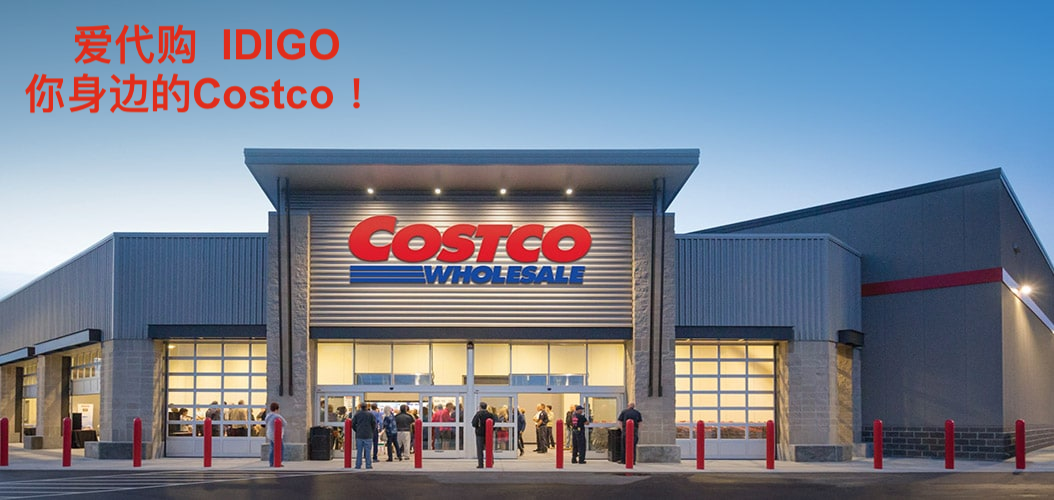
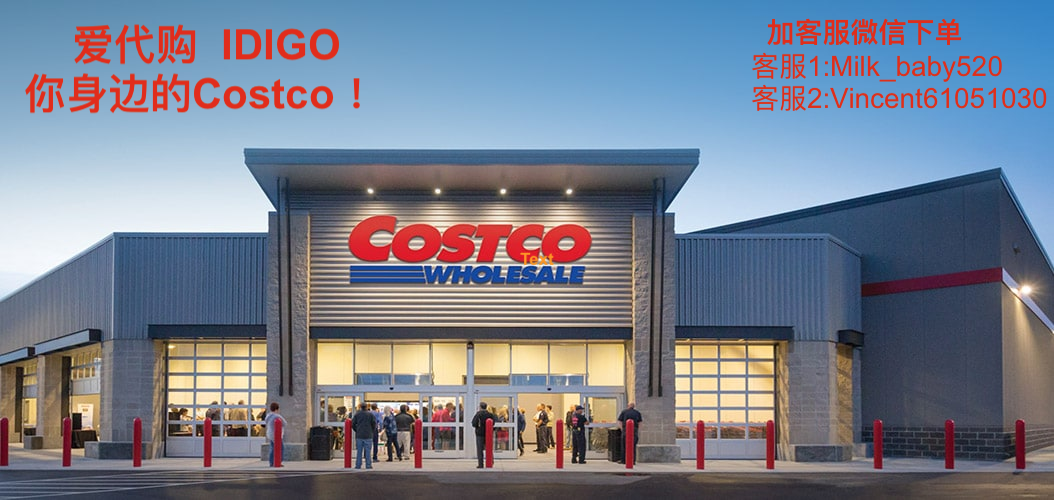
add customer service wechat on the cover, and description.

Changed region(s): [[0.6983, 0.03, 1.0, 0.24], [0.4858, 0.51, 0.5465, 0.54]]

diff --git a/src/client/pages/CollectionTab.js b/src/client/pages/CollectionTab.js
@@ -55,6 +55,9 @@ export const CollectionTab = () => {
     <p>
     爱代购成立于2015年，是一家深耕国际市场的电商平台，专注于提供美国的热销商品。我们的使命是：将开市客最优质的商品带到你的身边，让你在任何地方都能享受到开市客的商品和服务。
     </p>
+    <h4>加客服微信下单</h4>
+    <p>客服1: Milk_baby520</p>
+    <p>客服2: Vincent61051030</p>
     <Divider />
     <Divider />
     <Divider />
